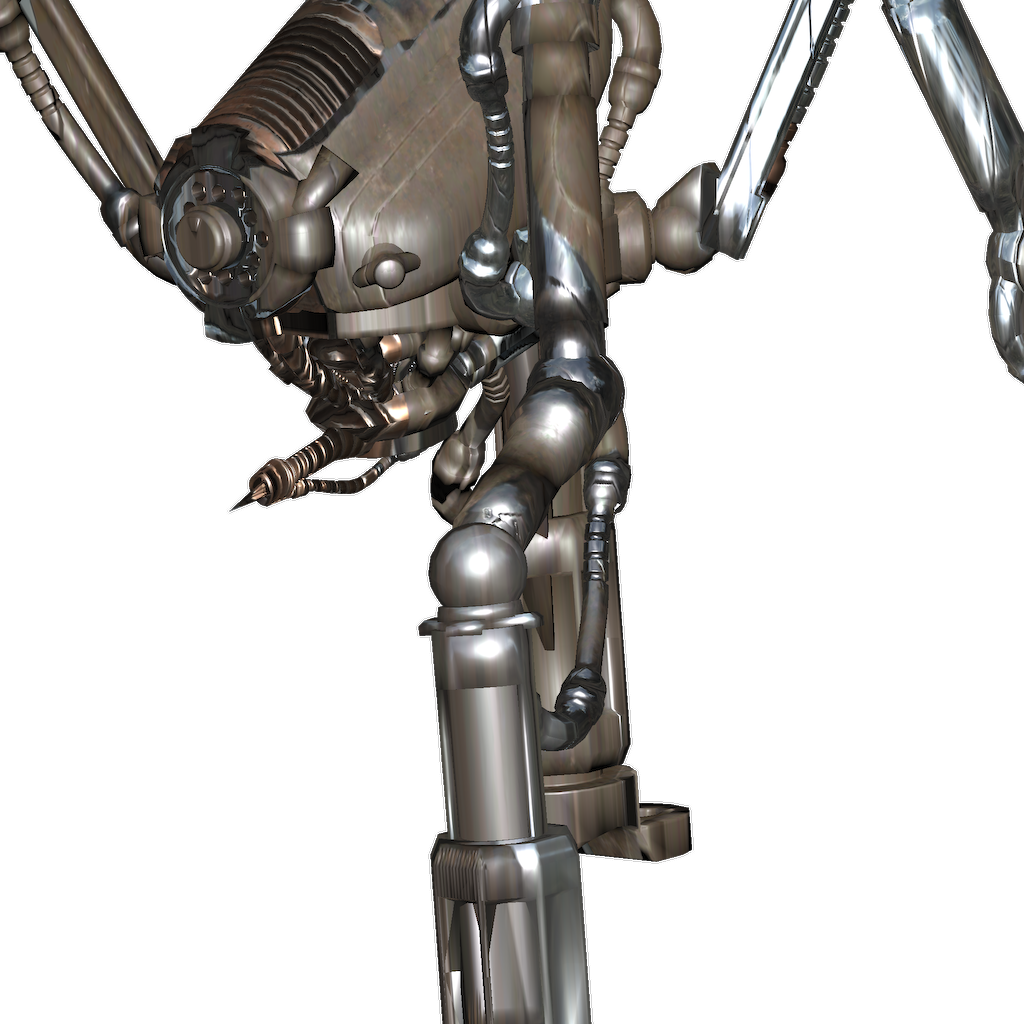
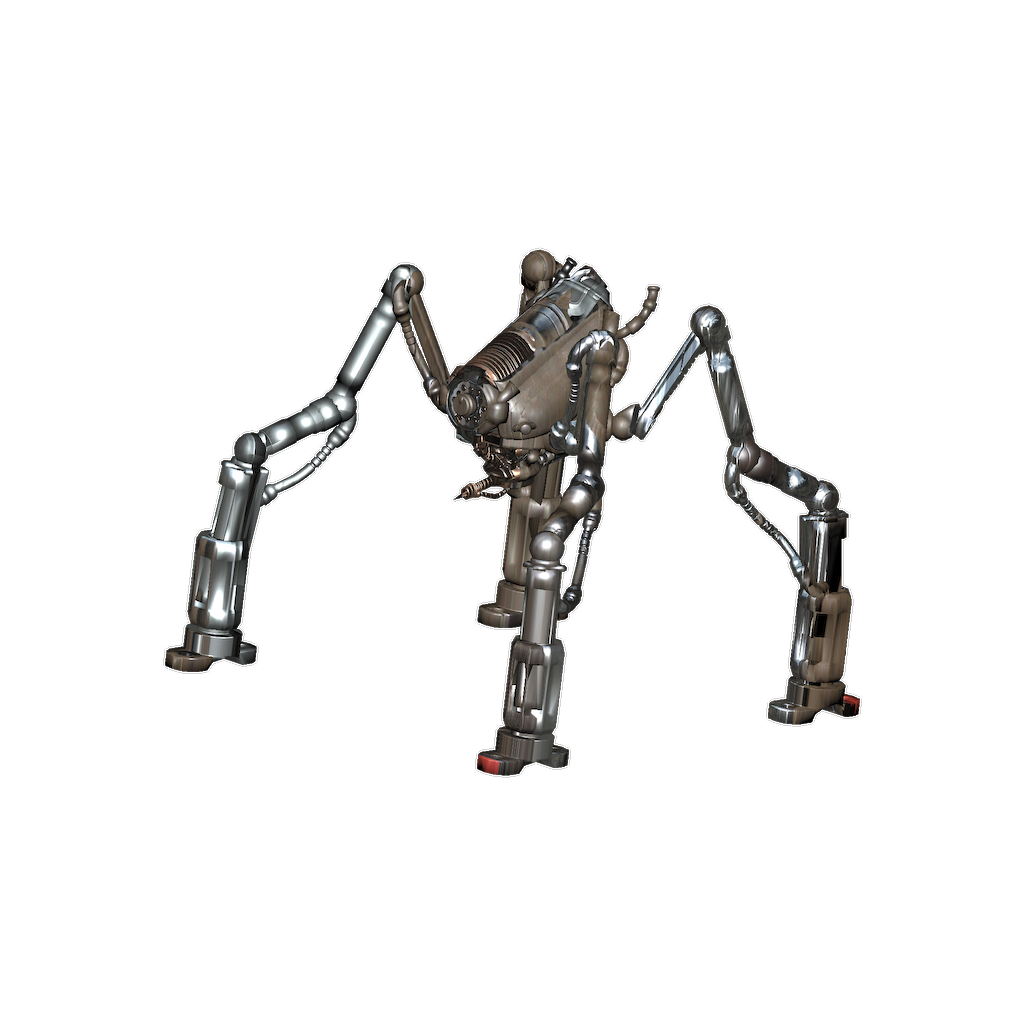
update renders, fix layout, clean up model collection
- re-rendered gutpuker with 5 proper full body angles
- re-rendered visitor corpse and mechtest at correct scale
- added image lightbox overlay (click to zoom, Escape to close)
- fixed card-tags layout overlap with dot separators
- stripped to only novel/undocumented model renders
- removed accidentally extracted game mesh/texture files
- added .gitignore for meshes/ and textures/

diff --git a/index.html b/index.html
@@ -198,8 +198,8 @@ body::after {
 .card-header {
   display: flex;
   flex-direction: column;
-  gap: 0.4rem;
-  padding: 0.8rem 1rem;
+  gap: 0.2rem;
+  padding: 0.8rem 1rem 0.2rem;
 }
 
 .card-header-top {
@@ -228,8 +228,22 @@ body::after {
 .card-tags {
   display: flex;
   align-items: center;
-  gap: 0.4rem;
+  gap: 0.5rem;
   flex-wrap: wrap;
+  padding: 0 1rem 0.4rem;
+}
+.card-tags .badge {
+  max-width: 100%;
+  white-space: normal;
+  line-height: 1.3;
+}
+.card-tags .dim {
+  opacity: 0.5;
+  font-size: 0.75rem;
+}
+.card-tags .dim::before {
+  content: '·';
+  margin-right: 0.4rem;
 }
 
 .card-summary {